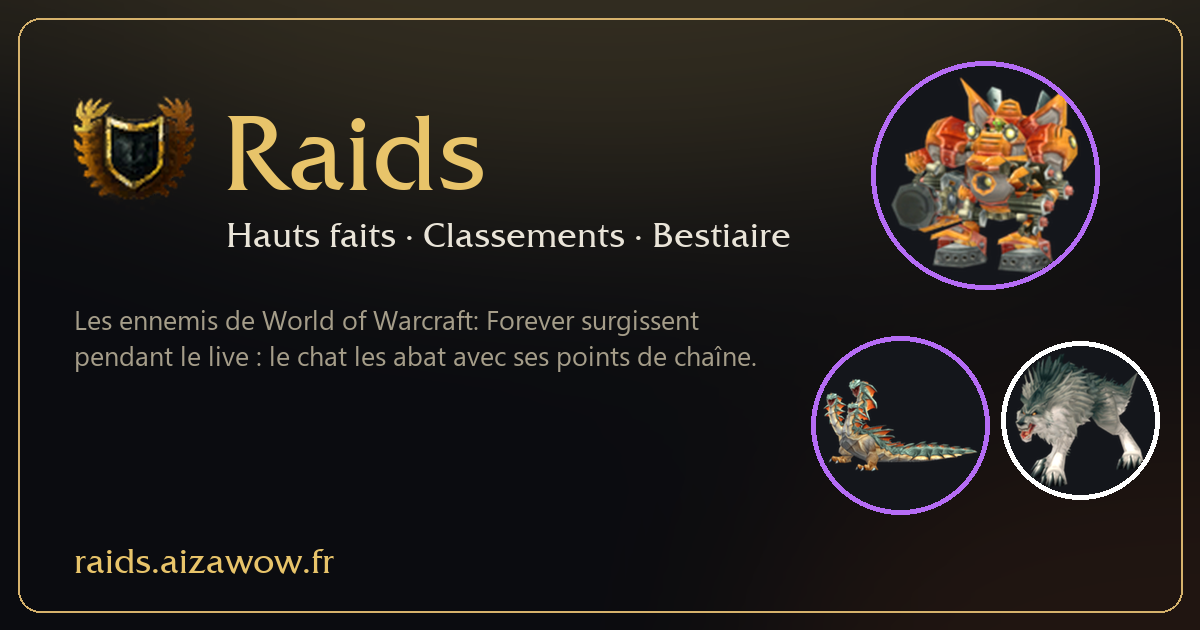
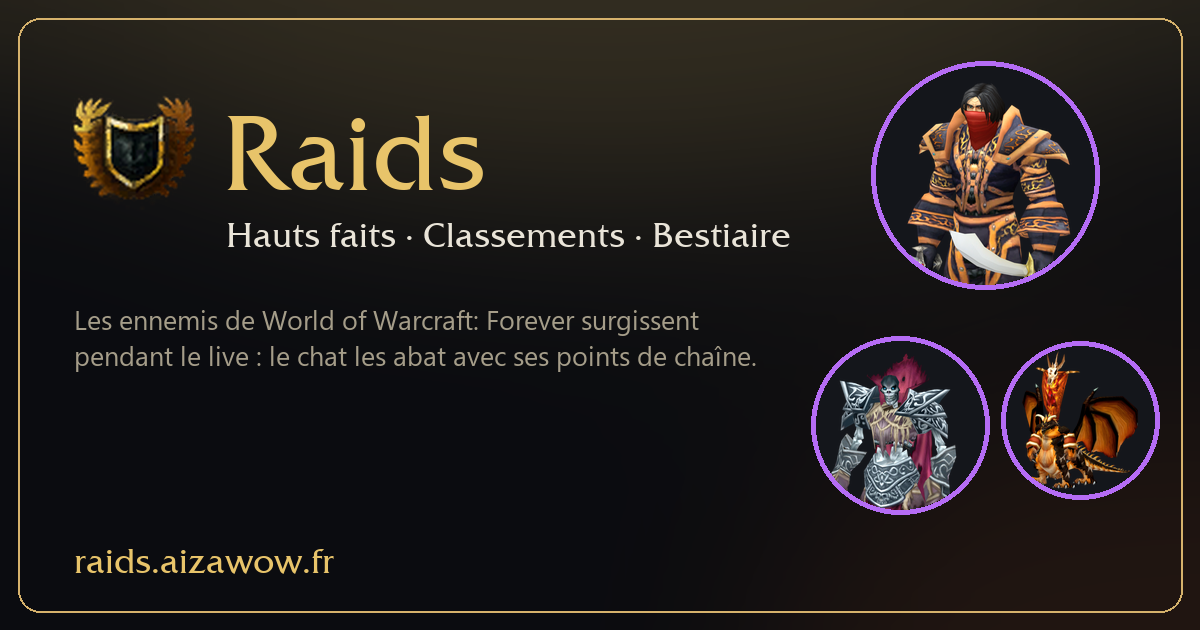
Site : 4 fichiers

Changed region(s): [[0.6783, 0.5429, 0.9867, 0.8143], [0.74, 0.1206, 0.925, 0.4524]]

diff --git a/site.js b/site.js
@@ -309,7 +309,7 @@ function brancherBestiaire(j) {
       }
       return `<div class="surface ennemi${j && statut(c) === 'n' ? ' terne' : ''}" style="--r:${coul}">
         <div class="portrait">${c.image ? `<img src="${c.image}" alt="" loading="lazy">` : '<span class="point">?</span>'}<span class="badge">${esc(rang)}</span></div>
-        <div class="corps"><div class="nom">${esc(c.nom)}</div><div class="lieu">${esc(c.lieu)}${c.niveau ? ` · niveau ${c.niveau}` : ''}</div>
+        <div class="corps"><div class="nom">${esc(c.nom)}</div><div class="lieu">${esc(c.lieu)}${c.crane ? ' · niveau <img class="crane" src="assets/ui/crane.png" alt="??" title="Boss : niveau ??">' : c.niveau ? ` · niveau ${c.niveau}` : ''}</div>
           <div class="tags">${tags.map((x) => `<span>${esc(x)}</span>`).join('')}</div>${perso ? `<div class="bas">${perso}</div>` : ''}</div></div>`;
     }).join('') || '<p class="vide">Aucun ennemi ne correspond.</p>';
   };
@@ -335,7 +335,7 @@ function vueRegles() {
   return `<div class="titre-page"><h1>Règles</h1><p>Comment fonctionnent les raids de la chaîne</p></div>
     <div class="regles"><div>
       <section class="surface bloc"><h2>Comment ça marche</h2>
-        <p>Pendant le live, un ennemi de World of Warcraft: Forever surgit toutes les ${a} à ${b} minutes. Une roulette tire son rang, puis il apparaît : le raid a quelques minutes pour l'abattre avant qu'il ne s'enfuie. Ses points de vie dépendent du nombre de viewers présents${R.niveaux && R.niveaux.actif !== false ? ` et de son niveau : un ennemi de niveau ${R.niveaux.reference} a les points de vie de son rang, un ennemi de bas niveau jusqu'à ${Math.round(100 * (1 - R.niveaux.min))} % de moins, un ennemi de niveau 60 environ ${Math.round(100 * (Math.min(R.niveaux.max, (60 / R.niveaux.reference) ** R.niveaux.exposant) - 1))} % de plus${R.niveaux.legendaires ? '' : ' (les légendaires gardent les points de vie de leur rang)'}` : ''}.</p>
+        <p>Pendant le live, un ennemi de World of Warcraft: Forever surgit toutes les ${a} à ${b} minutes. Une roulette tire son rang, puis il apparaît : le raid a quelques minutes pour l'abattre avant qu'il ne s'enfuie. Ses points de vie dépendent du nombre de viewers présents${R.niveaux && R.niveaux.actif !== false ? ` et de son niveau : les boss de raid et les légendaires sont de niveau 60 (tête de mort), un ennemi de niveau ${R.niveaux.reference} a les points de vie de son rang, un ennemi de bas niveau jusqu'à ${Math.round(100 * (1 - R.niveaux.min))} % de moins, un ennemi de niveau 60 environ ${Math.round(100 * (Math.min(R.niveaux.max, (60 / R.niveaux.reference) ** R.niveaux.exposant) - 1))} % de plus${R.niveaux.legendaires ? '' : ' (les légendaires gardent les points de vie de leur rang)'}` : ''}.</p>
         <p>On l'attaque avec ses <b>points de chaîne</b> : ouvre le menu des points sous le chat de Twitch, les attaques n'y apparaissent que pendant un raid. Une attaque lancée quand aucun raid n'est en cours, ou impossible à ce moment-là, est <b>remboursée</b>.</p></section>
       <section class="surface bloc"><h2>Attaques</h2><div class="attaques">${R.attaques.map((x) => `<div class="attaque"><img src="assets/icones/${x.id}.png" alt="">
         <div><div class="t"><b>${esc(x.titre)}</b><small>${nb(x.cout)} pts</small></div><p>${esc(x.description)}</p></div></div>`).join('')}</div></section>
